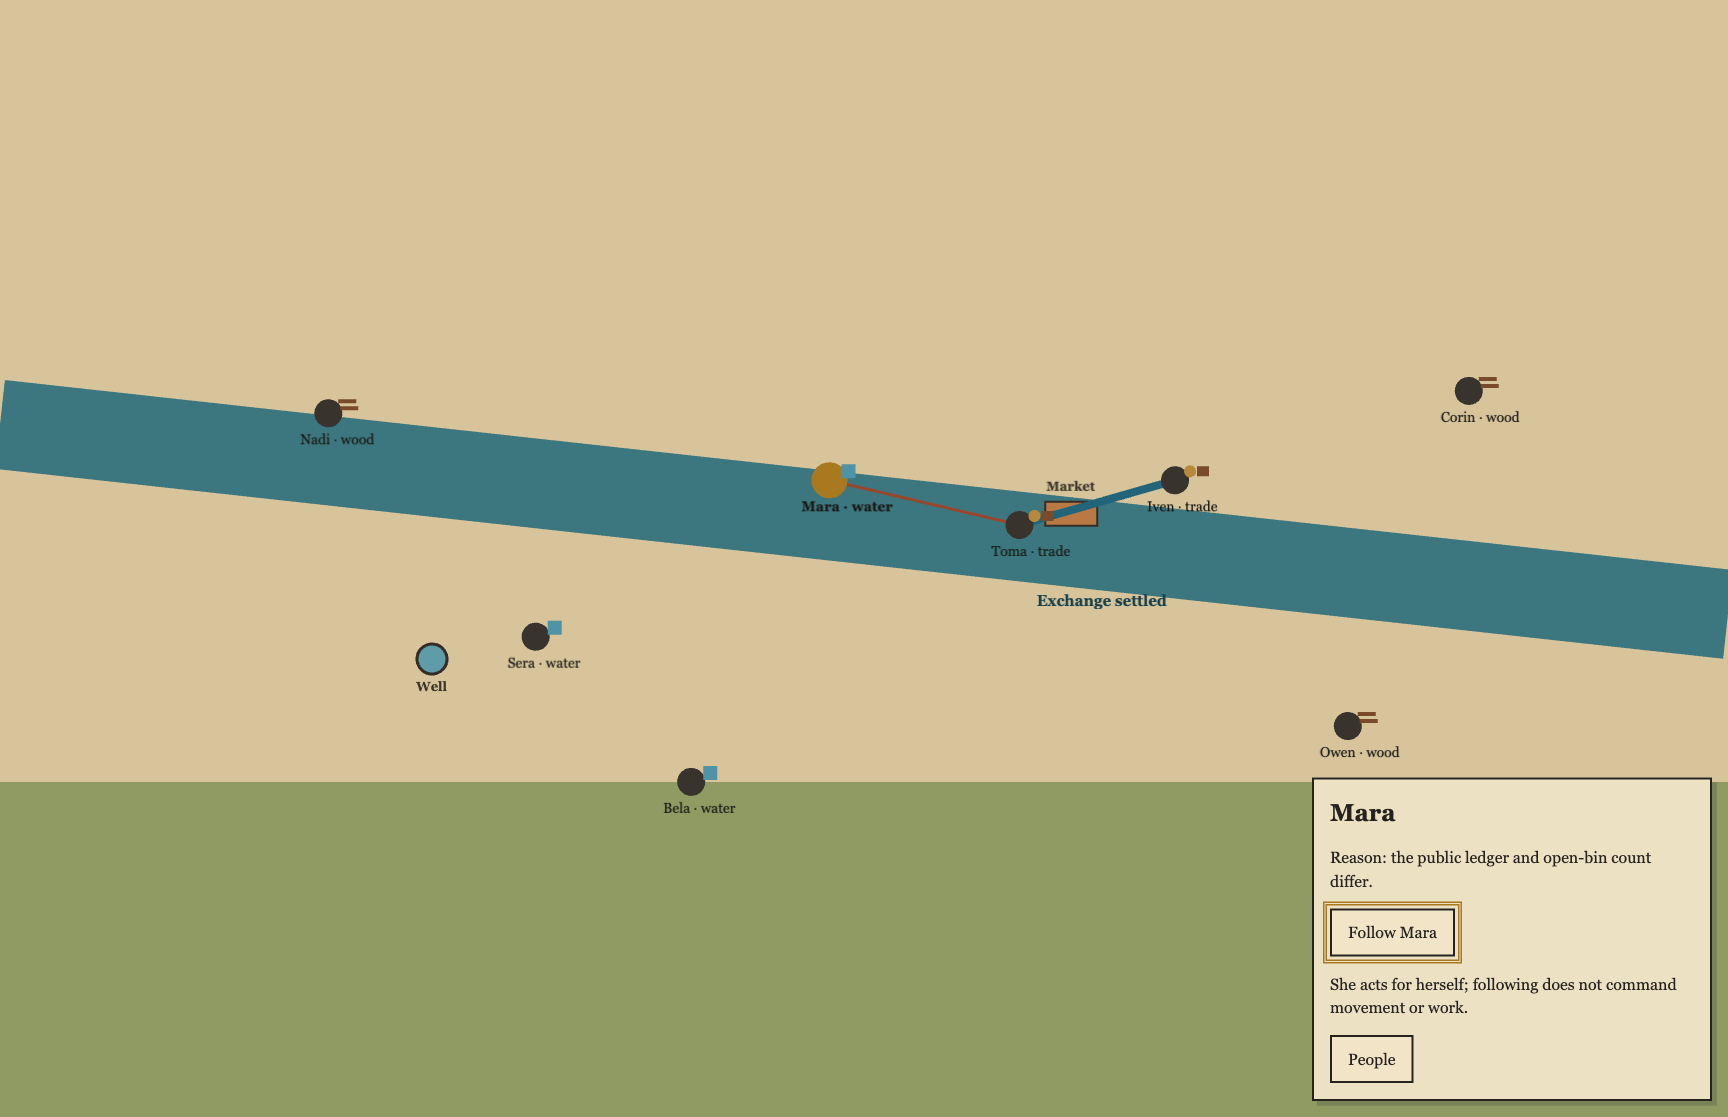
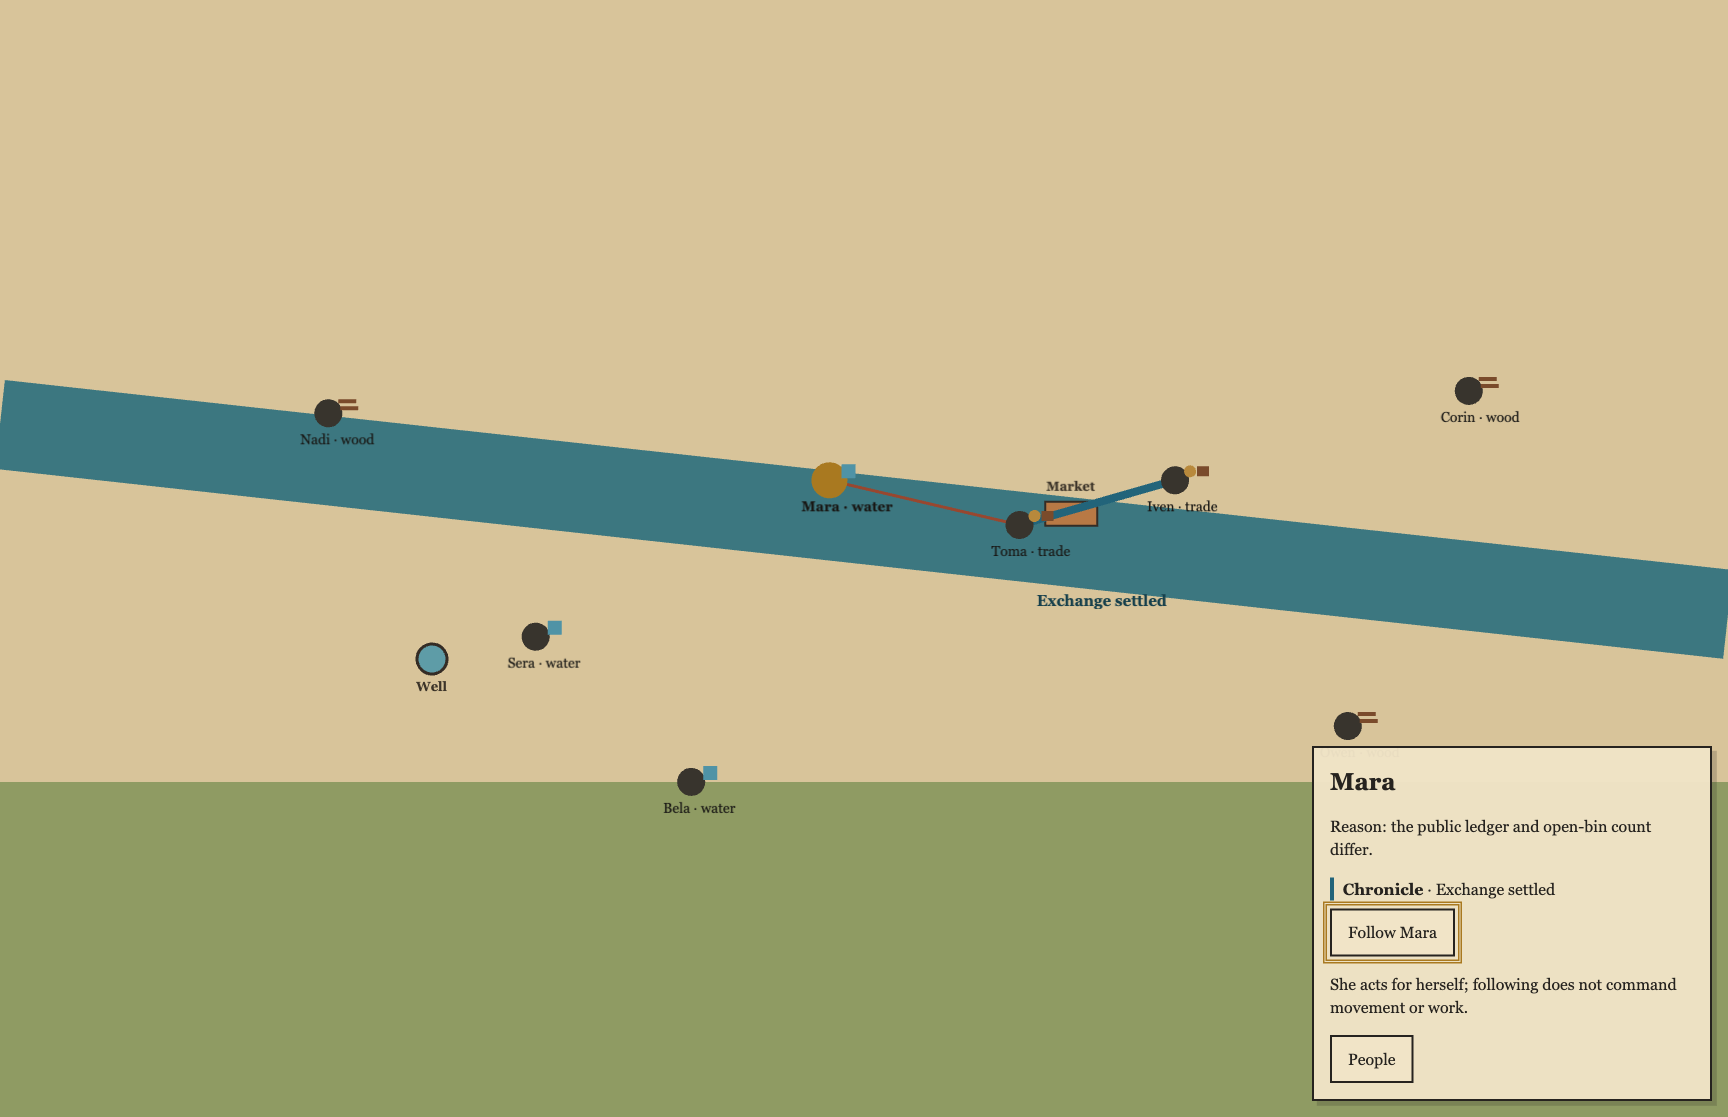
fix(gate-0): preserve failed evidence and mobile access

Changed region(s): [[0.75, 0.6697, 1.0, 0.8218]]

diff --git a/tests/prototypes/gate-0/harness/src/main.tsx b/tests/prototypes/gate-0/harness/src/main.tsx
@@ -571,6 +571,7 @@ function RiverholdScene({ onReady }: { onReady: () => void }) {
 				initialized = true;
 				if (disposed || !host.current) return app.destroy(true);
 				host.current.append(app.canvas);
+				const isMobile = app.screen.width <= 480;
 				const projection = (createProjection as any)({
 					width: host.current.clientWidth || 1366,
 					height: host.current.clientHeight || 768,
@@ -600,19 +601,22 @@ function RiverholdScene({ onReady }: { onReady: () => void }) {
 				const landmarkStyle = {
 					fill: "#3c3429",
 					fontFamily: "Georgia",
-					fontSize: app.screen.width <= 480 ? 10 : 13,
+					fontSize: isMobile ? 10 : 13,
 					fontWeight: "bold" as const,
 				};
 				const market = new Graphics()
 					.rect(-26, -12, 52, 24)
 					.fill("#b87945")
 					.stroke({ color: "#342c25", width: 2 });
-				market.position.set(app.screen.width * 0.62, app.screen.height * 0.46);
+				market.position.set(
+					app.screen.width * (isMobile ? 0.59 : 0.62),
+					app.screen.height * (isMobile ? 0.42 : 0.46),
+				);
 				layer.addChild(market);
 				const marketLabel = new Text({ text: "Market", style: landmarkStyle });
 				marketLabel.position.set(
-					app.screen.width * 0.62 - 25,
-					app.screen.height * 0.46 - 35,
+					app.screen.width * (isMobile ? 0.59 : 0.62) - 25,
+					app.screen.height * (isMobile ? 0.42 : 0.46) - 35,
 				);
 				layer.addChild(marketLabel);
 				const well = new Graphics()
@@ -641,6 +645,20 @@ function RiverholdScene({ onReady }: { onReady: () => void }) {
 						},
 					]),
 				);
+				if (isMobile) {
+					positions.set("citizen:mara", {
+						x: app.screen.width * 0.42,
+						y: app.screen.height * 0.34,
+					});
+					positions.set("citizen:toma", {
+						x: app.screen.width * 0.58,
+						y: app.screen.height * 0.48,
+					});
+					positions.set("citizen:iven", {
+						x: app.screen.width * 0.75,
+						y: app.screen.height * 0.34,
+					});
+				}
 				const drawEdge = (
 					from: string,
 					to: string,
@@ -663,18 +681,18 @@ function RiverholdScene({ onReady }: { onReady: () => void }) {
 					style: {
 						fill: "#153f4b",
 						fontFamily: "Georgia",
-						fontSize: app.screen.width <= 480 ? 11 : 15,
+						fontSize: isMobile ? 11 : 15,
 						fontWeight: "bold",
 					},
 				});
 				exchange.position.set(
-					app.screen.width * (app.screen.width <= 480 ? 0.43 : 0.6),
-					app.screen.height * (app.screen.width <= 480 ? 0.53 : 0.53),
+					app.screen.width * (isMobile ? 0.52 : 0.6),
+					app.screen.height * (isMobile ? 0.56 : 0.53),
 				);
 				layer.addChild(exchange);
 				for (const command of citizens) {
-					const x = (app.screen.width * command.xPercent) / 100;
-					const y = (app.screen.height * command.yPercent) / 100;
+					const position = positions.get(command.id)!;
+					const { x, y } = position;
 					const body = new Graphics()
 						.circle(0, 0, command.name === "Mara" ? 18 : 14)
 						.fill(command.name === "Mara" ? "#a97920" : "#38342d");
@@ -703,11 +721,17 @@ function RiverholdScene({ onReady }: { onReady: () => void }) {
 						style: {
 							fill: "#181714",
 							fontFamily: "Georgia",
-							fontSize: app.screen.width <= 480 ? 10 : 14,
+							fontSize: isMobile ? 10 : 14,
 							fontWeight: command.name === "Mara" ? "bold" : "normal",
 						},
 					});
-					label.position.set(x - (app.screen.width <= 480 ? 22 : 28), y + 18);
+					const labelAbove =
+						isMobile &&
+						(command.id === "citizen:mara" || command.id === "citizen:iven");
+					label.position.set(
+						x - (isMobile ? 22 : 28),
+						y + (labelAbove ? -34 : 18),
+					);
 					layer.addChild(label);
 				}
 				app.renderer.render(app.stage);
@@ -836,16 +860,6 @@ function ObserverRunner({
 		origin,
 		record.taskTimesMs.observationPromptMs,
 	]);
-	useEffect(() => {
-		if (
-			capture ||
-			origin === null ||
-			elapsed <= 10_000 ||
-			record.taskTimesMs.followMaraFindMs !== null
-		)
-			return;
-		mutate((value) => attemptInvalid(value, "observer", "follow-find-timeout"));
-	}, [capture, elapsed > 10_000, origin, record.taskTimesMs.followMaraFindMs]);
 	if (!consented)
 		return (
 			<Consent
@@ -887,7 +901,6 @@ function ObserverRunner({
 			answers.activities.length !== 3 ||
 			!answers.interaction ||
 			!answers.autonomy ||
-			record.taskTimesMs.followMaraFindMs === null ||
 			record.taskTimesMs.observationPromptMs === null
 		)
 			return;
@@ -938,6 +951,9 @@ function ObserverRunner({
 						Mara
 					</div>
 					<p>Reason: the public ledger and open-bin count differ.</p>
+					<p className="gate0-visual__chronicle">
+						<strong>Chronicle</strong> · Exchange settled
+					</p>
 					<button
 						type="button"
 						aria-describedby="gate0-follow-note"
@@ -1104,7 +1120,6 @@ function OperatorConsole() {
 					.join() === "1,2,3,4,5,6"
 			);
 		return (
-			record.taskTimesMs.followMaraFindMs !== null &&
 			record.taskTimesMs.observationPromptMs !== null &&
 			[
 				record.textResponses.mara,

diff --git a/tests/prototypes/gate-0/e2e/gate0.spec.ts b/tests/prototypes/gate-0/e2e/gate0.spec.ts
@@ -143,6 +143,80 @@ test("semantic fallback, reduced motion, keyboard, reflow, and capture isolation
 	expect(errors).toEqual([]);
 });
 
+test("390x844 at 200% text remains operable through prompt completion", async ({
+	page,
+}) => {
+	const errors = captureRuntimeErrors(page);
+	await page.clock.install();
+	await page.setViewportSize({ width: 390, height: 844 });
+	await page.goto("/observer/V01");
+	await page.evaluate(() => {
+		document.documentElement.style.fontSize = "200%";
+	});
+	await page.getByRole("button", { name: "I agree" }).click();
+	await expect(page.locator(".gate0-visual__canvas")).toHaveAttribute(
+		"data-ready",
+		"true",
+	);
+	const follow = page.getByRole("button", { name: "Follow Mara" });
+	const people = page.getByRole("button", { name: "People" });
+	await follow.focus();
+	await expect(follow).toBeFocused();
+	await follow.press("Enter");
+	await expect(page.getByText("Chronicle", { exact: true })).toBeVisible();
+	await expect(page.locator(".gate0-visual__peek")).toHaveCSS(
+		"overflow-y",
+		"auto",
+	);
+	await people.press("Enter");
+	await expect(
+		page.getByRole("list", {
+			name: "Riverhold citizens and current activities",
+		}),
+	).toBeVisible();
+	await expect(page.getByRole("listitem")).toHaveCount(8);
+	await page.getByRole("button", { name: "World view" }).press("Enter");
+	await expect
+		.poll(() =>
+			page.evaluate(
+				() =>
+					document.documentElement.scrollWidth <=
+					document.documentElement.clientWidth,
+			),
+		)
+		.toBe(true);
+	await page.clock.fastForward(60_050);
+	await expect(
+		page.getByRole("heading", { name: "Observation prompt" }),
+	).toBeVisible();
+	await page.getByLabel("Mara", { exact: true }).check();
+	await page.getByLabel("carrying water", { exact: true }).check();
+	await page.getByLabel("gathering wood", { exact: true }).check();
+	await page.getByLabel("exchanging wood and rations", { exact: true }).check();
+	await page
+		.getByLabel("Iven and Toma exchanged wood and rations", { exact: true })
+		.check();
+	await page
+		.getByLabel("No; she follows her visible Standing Plan and reasons", {
+			exact: true,
+		})
+		.check();
+	await page.getByRole("button", { name: "Save observation" }).click();
+	await expect(page.locator(".study-card[role='status']")).toContainText(
+		"Record complete",
+	);
+	await expect
+		.poll(() =>
+			page.evaluate(
+				() =>
+					document.documentElement.scrollWidth <=
+					document.documentElement.clientWidth,
+			),
+		)
+		.toBe(true);
+	expect(errors).toEqual([]);
+});
+
 test("product treatment starts only on a verified, enabled hidden variant", async ({
 	page,
 }) => {

diff --git a/tests/prototypes/gate-0/study/study.test.ts b/tests/prototypes/gate-0/study/study.test.ts
@@ -252,15 +252,44 @@ describe("closed evidence and analyzer", () => {
 		).toBe("FAIL");
 	});
 
-	test("scores a missing observer timer or response as incomplete", () => {
+	test("retains a Follow Mara miss in the denominator without invalidation", () => {
 		const evidence: any = mockEvidence();
 		evidence.participantRecords[6].taskTimesMs.followMaraFindMs = null;
+		const result = analyzeGate0Evidence(
+			JSON.stringify(evidence),
+			expectation,
+			answerKey,
+		);
+		expect(result.outcome).toBe("PASS");
+		expect(result.criterionResults["records-complete"]).toBe(true);
+		expect(result.criterionResults["observer-autonomy-4of5"]).toBe(true);
+	});
+
+	test("scores a missing prompt delivery timer or response as incomplete", () => {
+		const evidence: any = mockEvidence();
+		evidence.participantRecords[6].taskTimesMs.observationPromptMs = null;
 		evidence.participantRecords[6].textResponses.autonomy = null;
 		const result = analyzeGate0Evidence(
 			JSON.stringify(evidence),
 			expectation,
 			answerKey,
 		);
+		expect(result.outcome).toBe("FAIL");
+		expect(result.criterionResults["records-complete"]).toBe(false);
+	});
+
+	test("imports a terminal invalid product record with null future ranks", () => {
+		const evidence: any = mockEvidence();
+		const record = evidence.participantRecords[0];
+		record.protocol.V1 = {
+			status: "invalid",
+			invalidationReason: "focus-loss",
+		};
+		for (const presentation of PRESENTATIONS)
+			record.ratings[`${presentation}Rank`] = null;
+		const raw = JSON.stringify(evidence);
+		expect(validateGate0Evidence(raw, expectation).ok).toBe(true);
+		const result = analyzeGate0Evidence(raw, expectation, answerKey);
 		expect(result.outcome).toBe("FAIL");
 		expect(result.criterionResults["records-complete"]).toBe(false);
 	});

diff --git a/tests/prototypes/gate-0/study/validate.ts b/tests/prototypes/gate-0/study/validate.ts
@@ -212,7 +212,14 @@ function validateProduct(record: any, errors: string[]) {
 		);
 	}
 	const ranks = PRESENTATIONS.map((p) => record.ratings[`${p}Rank`]);
-	if (!record.abandoned && !equal([...ranks].sort(), [1, 2, 3, 4, 5, 6]))
+	const invalidAttempt = PRESENTATIONS.some(
+		(p) => record.protocol[p]?.status === "invalid",
+	);
+	if (
+		!record.abandoned &&
+		!invalidAttempt &&
+		!equal([...ranks].sort(), [1, 2, 3, 4, 5, 6])
+	)
 		errors.push(`${record.studyId} ranks are not a permutation`);
 }
 

diff --git a/tests/prototypes/gate-0/study/analyze.ts b/tests/prototypes/gate-0/study/analyze.ts
@@ -93,10 +93,7 @@ export function analyzeGate0Evidence(
 	for (const observer of observers) {
 		if (observer.abandoned || !validAttempt(observer.protocol.observer))
 			recordsComplete = false;
-		if (
-			observer.taskTimesMs.followMaraFindMs === null ||
-			observer.taskTimesMs.observationPromptMs === null
-		)
+		if (observer.taskTimesMs.observationPromptMs === null)
 			recordsComplete = false;
 		if (
 			[

diff --git a/tests/prototypes/gate-0/harness/src/styles.css b/tests/prototypes/gate-0/harness/src/styles.css
@@ -111,6 +111,11 @@ fieldset label {
 	font-size: 1.5rem;
 	font-weight: 700;
 }
+.gate0-visual__chronicle {
+	margin-block: 0.5rem;
+	padding-inline-start: 0.55rem;
+	border-inline-start: 4px solid #22647a;
+}
 .observer-form {
 	position: fixed;
 	z-index: 100;
